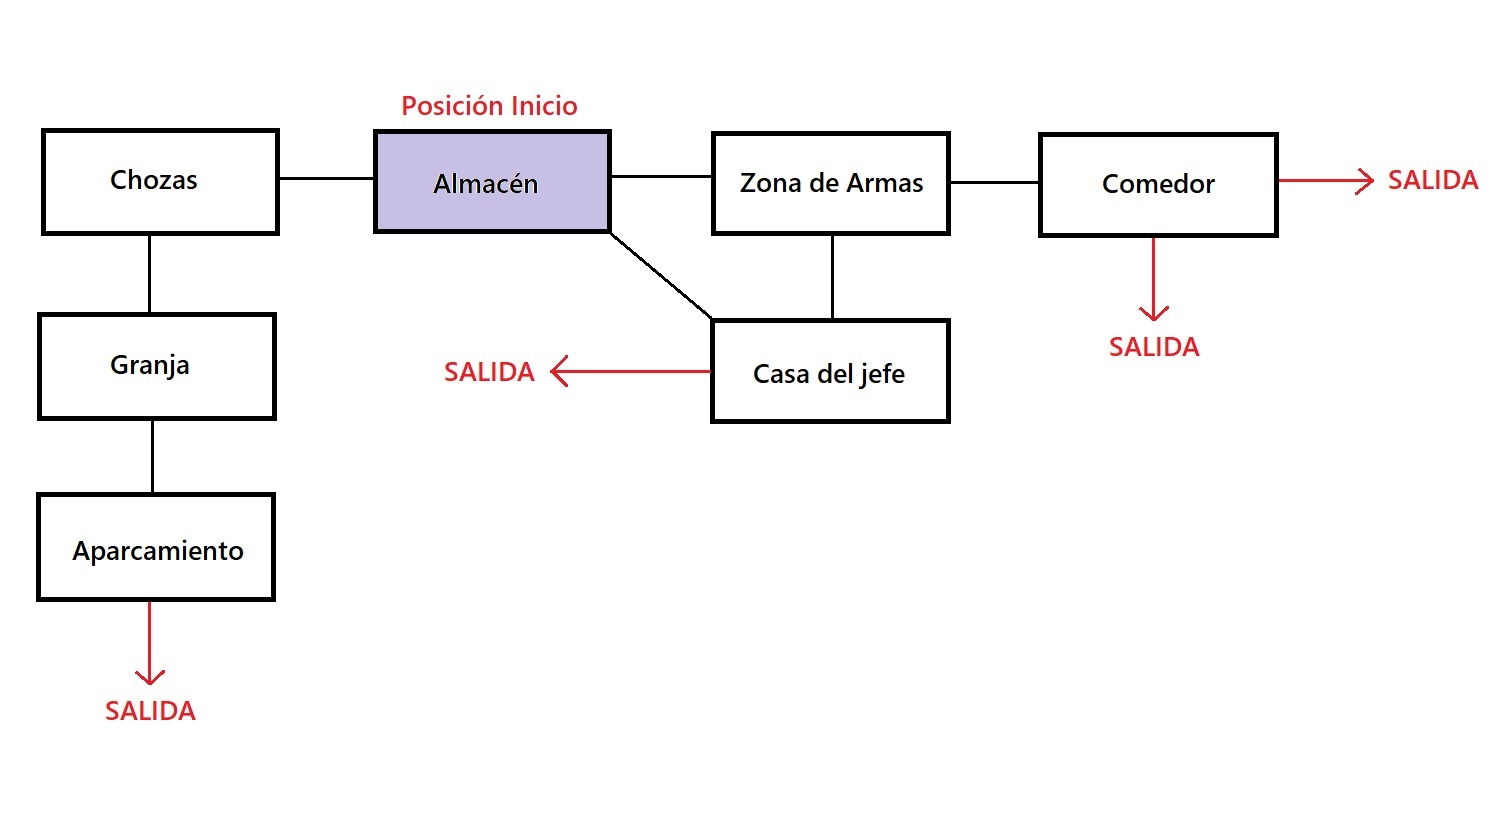
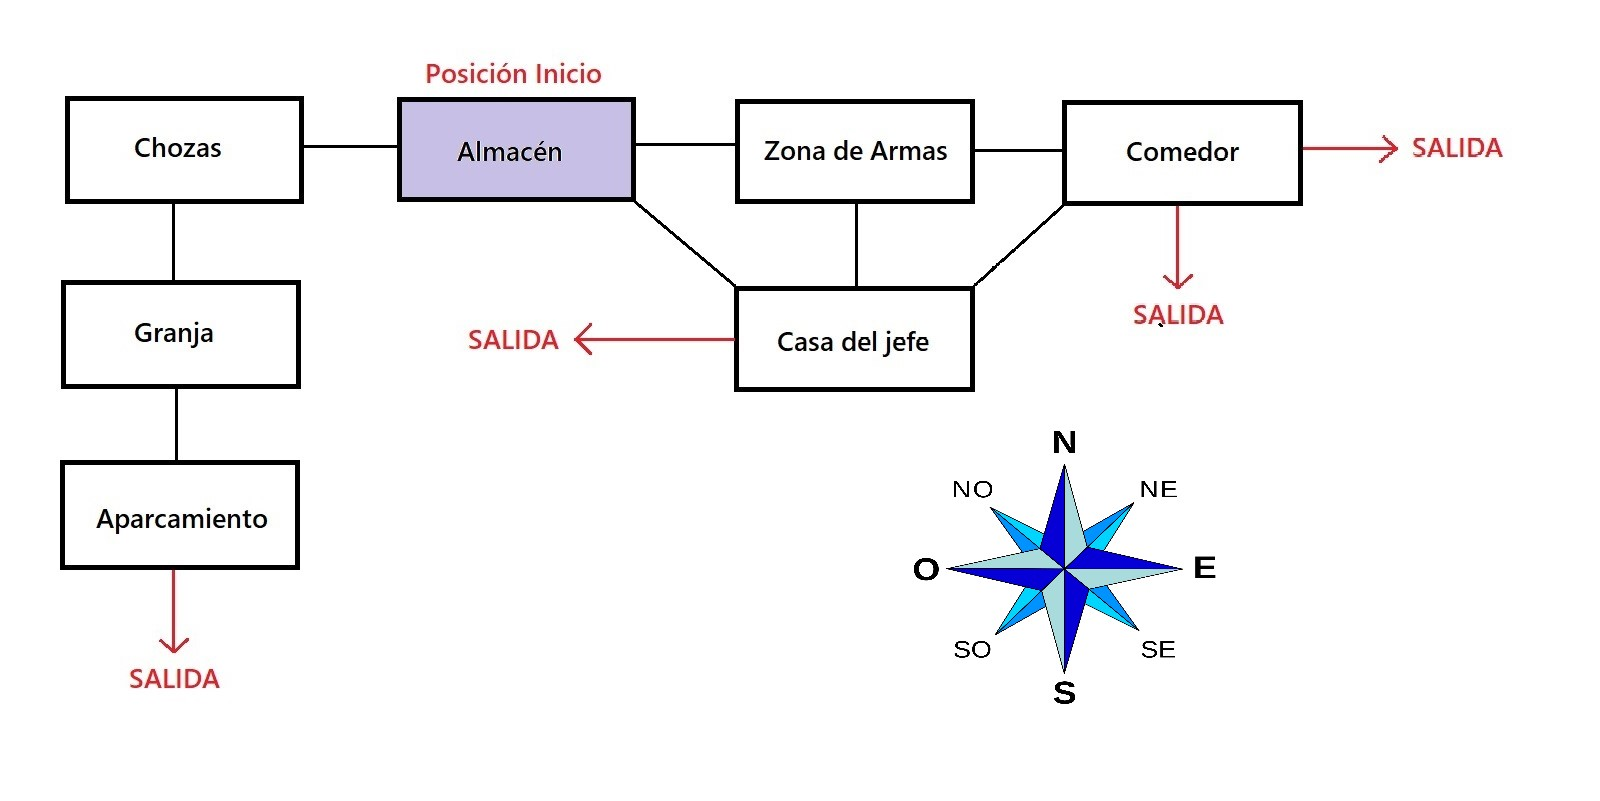
Commit06

diff --git a/Room.java b/Room.java
@@ -20,6 +20,7 @@ public class Room
     private Room eastExit;
     private Room westExit;
     private Room southEastExit;
+    private Room northWestExit;
 
     /**
      * Create a room described "description". Initially, it has
@@ -40,7 +41,7 @@ public class Room
      * @param south The south exit.
      * @param west The west exit.
      */
-    public void setExits(Room north, Room east, Room south, Room west, Room southEast) 
+    public void setExits(Room north, Room east, Room south, Room west, Room southEast, Room northWest) 
     {
         if(north != null)
             northExit = north;
@@ -52,6 +53,8 @@ public class Room
             westExit = west;
         if(southEast != null)
             southEastExit = southEast;
+        if(northWest != null)
+            northWestExit = northWest;
     }
 
     /**
@@ -79,6 +82,9 @@ public class Room
         if(direction.equals("southEast")){
             salaADevolver = southEastExit;
         }
+        if(direction.equals("northWest")){
+            salaADevolver = northWestExit;
+        }
         return salaADevolver;
     }
 
@@ -104,6 +110,9 @@ public class Room
         }
         if(southEastExit != null){
             descripcion += "southEast ";
+        }
+        if(northWestExit != null){
+            descripcion += "northWest ";
         }
         return descripcion;
     }

diff --git a/Game.java b/Game.java
@@ -47,13 +47,13 @@ public class Game
         salida = new Room("Libre!");
 
         // initialise room exits // n e s o
-        almacen.setExits(null, zonaDeArmas, null, chozas, casaDelJefe);
-        zonaDeArmas.setExits(null, comedor, casaDelJefe, almacen, null);
-        comedor.setExits(null, salida, salida, zonaDeArmas, null);
-        casaDelJefe.setExits(zonaDeArmas, null, null, salida, null);
-        chozas.setExits(null, almacen, granja, null, null);
-        granja.setExits(chozas, null, aparcamiento, null, null);
-        aparcamiento.setExits(granja, null, salida, null, null);
+        almacen.setExits(null, zonaDeArmas, null, chozas, casaDelJefe, null);
+        zonaDeArmas.setExits(null, comedor, casaDelJefe, almacen, null, null);
+        comedor.setExits(null, salida, salida, zonaDeArmas, null, null);
+        casaDelJefe.setExits(zonaDeArmas, null, null, salida, null, almacen);
+        chozas.setExits(null, almacen, granja, null, null, null);
+        granja.setExits(chozas, null, aparcamiento, null, null, null);
+        aparcamiento.setExits(granja, null, salida, null, null, null);
 
         currentRoom = almacen;  // start game almacenz
     }
